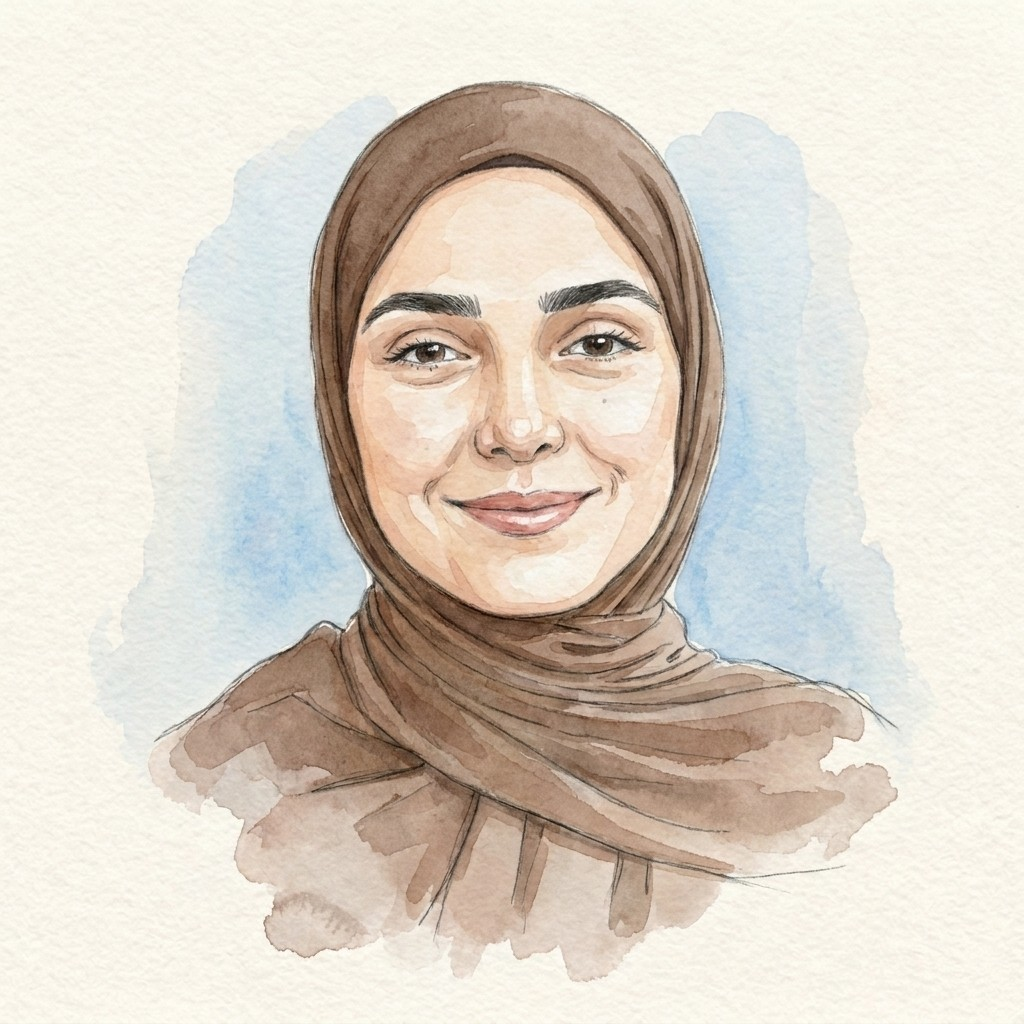
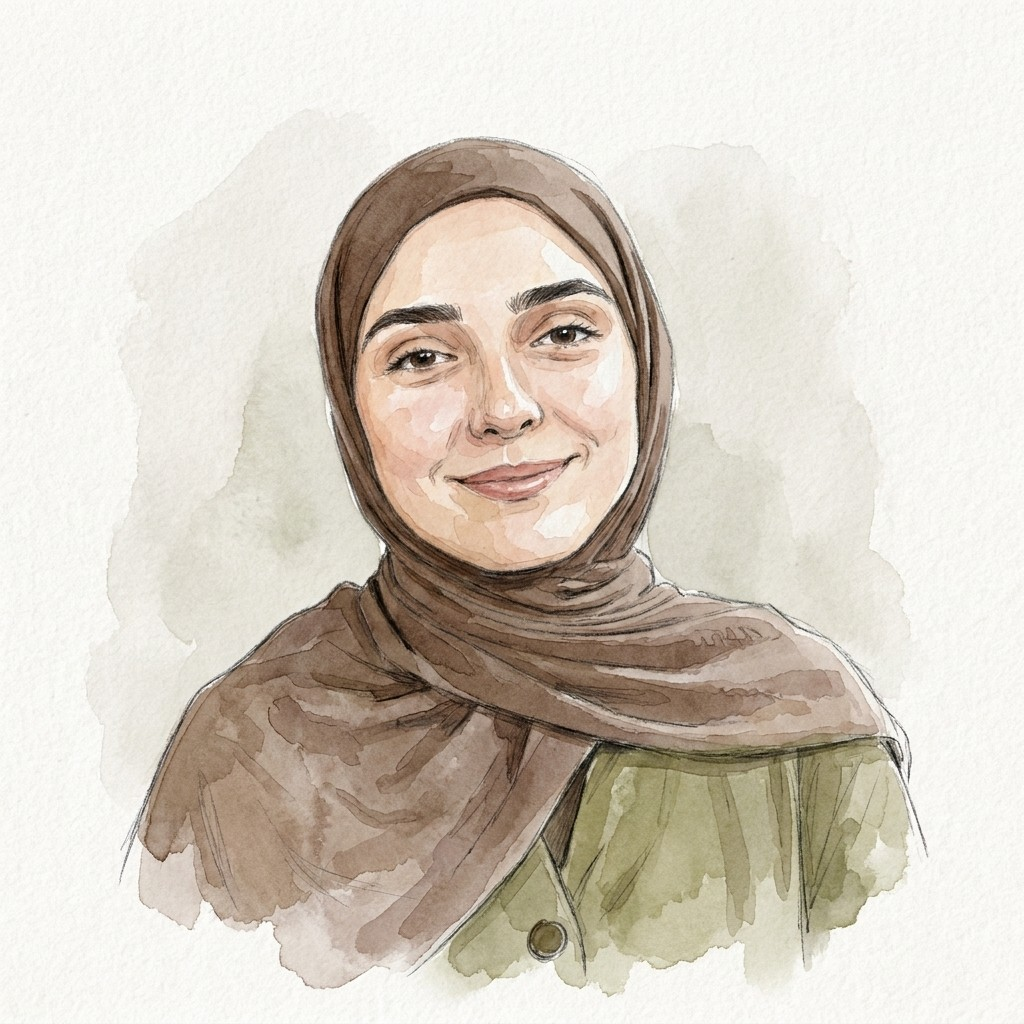
Ekip YZ: tüm ekip (26 kişi) suluboya portreleri
Her kişide kesilmemiş orijinaller, alternatif, kadraj ve gri fon referans;
Duygu, Esma ve Irmak düzeltilerek yeniden üretildi.

diff --git a/docs/ekip/yz/claude/referans_uret.py b/docs/ekip/yz/claude/referans_uret.py
@@ -21,6 +21,10 @@ KISI = {
  'gulsiye-begum-gumus': "Gülsiye, " + GENC + ": she wears a patterned grey hijab, often glasses resting on her head",
  'feyza-karabicak': "Feyza, " + GENC + ": she wears a dark brown hijab and round thin glasses",
 }
+# listede tarifi olmayanlar: yalnız ad + yaş kuralı; görünüş fotoğraflardan okunur
+for _k in json.load(open('src/data/ekibimiz.json'))['people']:
+    _s = os.path.basename(_k['photo'])[:-4]
+    KISI.setdefault(_s, _k['name'].split()[0] + ", " + GENC)
 # grup fotoğraflarında kim kim
 GRUP = {
  'irmak-karaagac-bilgehan': {'bilgehan-zeki-ozaytac': 'the bald man with glasses on the LEFT', 'irmak-karaagac': 'the young woman in the brown hijab on the RIGHT'},
@@ -45,7 +49,7 @@ def fotolar(slug):
             L.append((p, 'group photo; this person is ' + GRUP[grup][slug] + '; ignore everyone else'))
         elif not grup and ad.startswith(slug) and 'referans-sayfasi' not in ad:
             L.append((p, 'photo of this person'))
-    for p, n in [(E + f'alternatif/{slug}.jpg', 'another photo'), (E + f'yz/codex/gri-fon/{slug}.jpg', 'studio portrait of this person')]:
+    for p, n in [(E + f'alternatif/{slug}.jpg', 'another photo'), (E + f'yz/codex/kadraj/{slug}.jpg', 'wider crop of a real photo'), (E + f'yz/codex/gri-fon/{slug}.jpg', 'studio portrait of this person')]:
         if os.path.exists(p): L.append((p, n))
     return L
 
